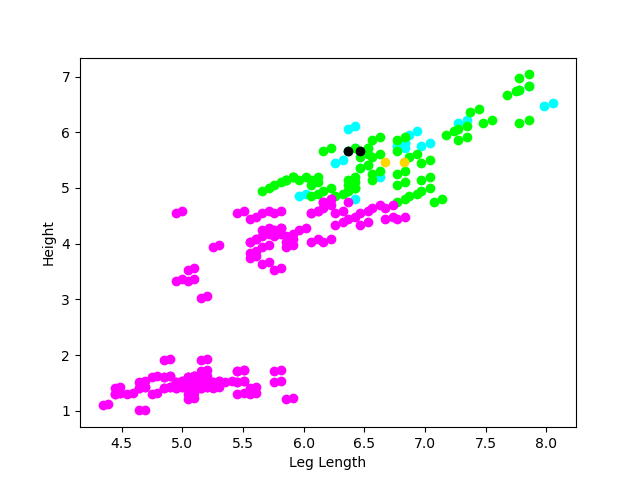
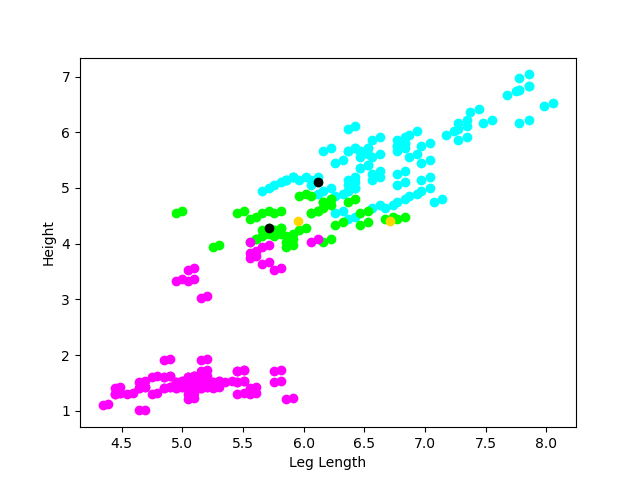
.

Changed region(s): [[0.3125, 0.2812, 0.7188, 0.5312], [0.6875, 0.125, 0.8438, 0.3125], [0.25, 0.4375, 0.3125, 0.4688]]

diff --git a/Task 3/main.py b/Task 3/main.py
@@ -1,0 +1,275 @@
+import findspark
+import pyspark
+import matplotlib.pyplot as plt
+import numpy as np
+import pandas as pd
+from functools import reduce
+from pyspark.sql import SparkSession
+from pyspark.ml import Pipeline
+from pyspark.sql import DataFrame
+from pyspark.ml.stat import Correlation
+from pyspark.sql.types import IntegerType, FloatType, StructType, StructField
+from pyspark.ml.feature import VectorAssembler, StandardScaler, VectorIndexer, StringIndexer
+from pyspark.ml.classification import DecisionTreeClassifier, NaiveBayes, LogisticRegression, MultilayerPerceptronClassifier, LinearSVC
+from pyspark.ml.evaluation import MulticlassClassificationEvaluator
+from pyspark.sql.functions import isnan, when, count, col, max, min, mean, percentile_approx, first, row_number, monotonically_increasing_id, lit, rand
+from pyspark.sql import Window
+
+findspark.init()
+
+
+spark = SparkSession.builder.getOrCreate()
+df = spark.read.csv('nuclear_plants_small_dataset.csv', inferSchema=True, header=True).na.fill(0)
+#Detecting when a value is messing from the dataset 
+df.select([count(when(isnan(c) | col(c).isNull(), c)).alias(c) for c in df.columns])
+
+print(f"""There are {df.count()} records in the dataset.""")
+
+
+#Splits the data to all with a normal status 
+normal_df = df.where(col('Status') == "Normal")
+
+#finds the max, min, mean and median of each column in the normal dataset 
+max_normal_df = normal_df.select([max(c) for c in normal_df.columns]) 
+min_normal_df = normal_df.select([min(c) for c in normal_df.columns])
+mean_normal_df = normal_df.select([mean(c) for c in normal_df.columns])
+median_normal_df = normal_df.select([percentile_approx(i, 0.5)for i in normal_df.columns])
+
+#finds the lower and higher percentiles of each column in the normal dataset 
+lower_percentile_normal_df = normal_df.select([percentile_approx(i, 0.25)for i in normal_df.columns])
+higher_percentile_normal_df = normal_df.select([percentile_approx(i, 0.75)for i in normal_df.columns])
+
+#Splits the data to all with a abnormal status 
+abnormal_df = df.where(col('Status') == "Abnormal")
+
+#finds the max, min, mean and median of each column in the abnormal dataset 
+max_abnormal_df = abnormal_df.select([max(c) for c in abnormal_df.columns])
+min_abnormal_df = abnormal_df.select([min(c) for c in abnormal_df.columns])
+mean_abnormal_df = abnormal_df.select([mean(c) for c in abnormal_df.columns])
+median_abnormal_df = abnormal_df.select([percentile_approx(i, 0.5)for i in abnormal_df.columns])
+
+#finds the lower and higher percentiles of each column in the abnormal dataset 
+lower_percentile_abnormal_df = abnormal_df.select([percentile_approx(i, 0.25)for i in abnormal_df.columns])
+higher_percentile_abnormal_df = abnormal_df.select([percentile_approx(i, 0.75)for i in abnormal_df.columns])
+
+#convers the dataframes to pandas dataframes, this is to print the data in boxplots
+pandasNDF = normal_df.toPandas()
+pandasADF = abnormal_df.toPandas()
+
+#creates blank lists to store 
+normallist = []
+abnormallist = []
+
+drop = df.drop("Status")
+columns = (drop.columns)
+titlelist = ["Status","Power_range_sensor_1","Power_range_sensor_2","Power_range_sensor_3 ",'Power_range_sensor_4','Pressure _sensor_1','Pressure _sensor_2','Pressure _sensor_3','Pressure _sensor_4','Vibration_sensor_1','Vibration_sensor_2','Vibration_sensor_3','Vibration_sensor_4']
+
+#Calculates the mode for normal data
+
+for c in columns:
+    nm = normal_df.groupBy(c).count().orderBy('count', ascending=False).first()[0]
+    normallist.append(nm)
+
+normalrdd = spark.sparkContext.parallelize(normallist)
+normalrdd2 = normalrdd.map(lambda c: (c, )).toDF()
+nw = Window.orderBy("_1")
+na = normalrdd2.withColumn("x4", row_number().over(nw))
+nb = na.withColumn("Status", lit("Normal"))
+nc = nb.groupBy("Status").pivot("x4").sum("_1")
+modenormal = nc.select(col("Status").alias("Status"),col("1").alias("Power_range_sensor_1"),col("2").alias("Power_range_sensor_2"),col("3").alias("Power_range_sensor_3 "),col("4").alias("Power_range_sensor_4"),col("5").alias("Pressure _sensor_1"),col("6").alias("Pressure _sensor_2"),col("7").alias("Pressure _sensor_3"),col("8").alias("Pressure _sensor_4"),col("9").alias("Vibration_sensor_1"),col("10").alias("Vibration_sensor_2"),col("11").alias("Vibration_sensor_3"),col("12").alias("Vibration_sensor_4"))
+
+#Calculates the mode for abnormal data
+
+for p in columns:
+    abm = abnormal_df.groupBy(p).count().orderBy('count', ascending=False).first()[0]
+    abnormallist.append(abm)
+
+abnormalrdd = spark.sparkContext.parallelize(abnormallist)
+abnormalrdd2 = abnormalrdd.map(lambda c: (c, )).toDF()
+abnw = Window.orderBy("_1")
+abna = abnormalrdd2.withColumn("x4", row_number().over(abnw))
+abnb = abna.withColumn("Status", lit("Abnormal"))
+abnc = abnb.groupBy("Status").pivot("x4").sum("_1")
+modeabnormal = abnc.select(col("Status").alias("Status"),col("1").alias("Power_range_sensor_1"),col("2").alias("Power_range_sensor_2"),col("3").alias("Power_range_sensor_3 "),col("4").alias("Power_range_sensor_4"),col("5").alias("Pressure _sensor_1"),col("6").alias("Pressure _sensor_2"),col("7").alias("Pressure _sensor_3"),col("8").alias("Pressure _sensor_4"),col("9").alias("Vibration_sensor_1"),col("10").alias("Vibration_sensor_2"),col("11").alias("Vibration_sensor_3"),col("12").alias("Vibration_sensor_4"))
+
+
+
+
+
+labelCol = "Status"
+
+
+print(f"""There are {df.count()} records in the dataset.""")
+columnsdata = df.columns
+filteredcol = columnsdata[:-1]
+inputCols = filteredcol[1:]
+colnumb = [len(inputCols), 15, 15, 2]
+
+labelIndexer = StringIndexer(\
+                            inputCol="Status", \
+                            outputCol="indexedLabel")
+
+va = VectorAssembler(\
+                               inputCols = inputCols, \
+                               outputCol = "features") \
+                              .setHandleInvalid("skip")
+
+stdScaler = StandardScaler(inputCol="features", \
+                        outputCol="scaledFeatures", \
+                        withStd=True, \
+                        withMean=False)
+
+dt = DecisionTreeClassifier(labelCol="indexedLabel", \
+                            featuresCol="features", \
+                            impurity="gini")
+
+evaluator = MulticlassClassificationEvaluator(
+        labelCol='indexedLabel', 
+        predictionCol='prediction', 
+        metricName='accuracy')
+
+linear = LinearSVC(maxIter=10, \
+        regParam=0.1, \
+        featuresCol='scaledFeatures', \
+        labelCol='indexedLabel')
+
+multilayerper = MultilayerPerceptronClassifier(labelCol="indexedLabel", \
+                                     featuresCol="scaledFeatures", \
+                                     maxIter=100, layers=colnumb, \
+                                     blockSize=128, \
+                                     seed=1234)
+
+
+randdf = df.orderBy(rand())
+
+#randomizes data
+adf = labelIndexer.fit(randdf).transform(randdf)
+adf = adf.drop("Status")
+
+#assebles vectors
+adf = va.transform(adf)
+
+#trains scaler
+scalemodel = stdScaler.fit(adf)
+sadf = scalemodel.transform(adf)
+#splits data 
+trainDF, testDF = sadf.randomSplit([.7, .3], seed=42)
+
+#trains decision tree
+dttrained = dt.fit(trainDF)
+dtpredict = dttrained.transform(testDF)
+
+#trains the support vector
+svmodel = linear.fit(trainDF)
+svpredict = svmodel.transform(testDF)
+
+#trains the multilaterperceptron
+multimodel = multilayerper.fit(trainDF)
+multipredict = multimodel.transform(testDF)
+
+#calculates the accuracy 
+multiaccuracy = evaluator.evaluate(multipredict)
+vectoraccuracy = evaluator.evaluate(svpredict)
+dtaccuracy = evaluator.evaluate(dtpredict)
+
+
+N_train = trainDF.select("indexedLabel").where(col("indexedLabel") == 0).count()
+AB_train = trainDF.select("indexedLabel").where(col("indexedLabel") == 1).count()
+N_test = testDF.select("indexedLabel").where(col("indexedLabel") == 0).count()
+AB_test = testDF.select("indexedLabel").where(col("indexedLabel") == 1).count()
+
+#decision tree
+dtTrueN = dtpredict.where((col('prediction')=='0') & (col('indexedLabel')=='0')).count()
+dtFalseN = dtpredict.where((col('prediction')=='1') & (col('indexedLabel')=='0')).count()
+dtTrueABN = dtpredict.where((col('prediction')=='1') & (col('indexedLabel')=='1')).count()
+dtFalseABN = dtpredict.where((col('prediction')=='0') & (col('indexedLabel')=='1')).count()
+#support vector
+svTrueN = svpredict.where((col('prediction')=='0') & (col('indexedLabel')=='0')).count()
+svFalseN = svpredict.where((col('prediction')=='1') & (col('indexedLabel')=='0')).count()
+svTrueABN = svpredict.where((col('prediction')=='1') & (col('indexedLabel')=='1')).count()
+svFalseABN = svpredict.where((col('prediction')=='0') & (col('indexedLabel')=='1')).count()
+#multilayerperceptron
+mtTrueN = multipredict.where((col('prediction')=='0') & (col('indexedLabel')=='0')).count()
+mtFalseN = multipredict.where((col('prediction')=='1') & (col('indexedLabel')=='0')).count()
+mtTrueABN = multipredict.where((col('prediction')=='1') & (col('indexedLabel')=='1')).count()
+mtFalseABN = multipredict.where((col('prediction')=='0') & (col('indexedLabel')=='1')).count()
+
+statlist = ["min","max","mean","median","mode","lower","upper"]
+dtSen = (dtTrueN + dtFalseABN)
+dtSensitivity = (dtTrueN / dtSen)
+dtSpe = (dtTrueABN + dtFalseN)
+dtSpecificity = (dtTrueABN / dtSpe)
+dtmatrix = spark.createDataFrame([("Normal", dtTrueN, dtFalseN),("Abnormal", dtFalseABN, dtTrueABN)],['Status','True',"False"])
+
+svSen = (svTrueN + svFalseABN)
+svSensitivity = (svTrueN / svSen)
+svSpe = (svTrueABN + svFalseN)
+svSpecificity = (svTrueABN / svSpe)
+svmatrix = spark.createDataFrame([("Normal", svTrueN, svFalseN),("Abnormal", svFalseABN, svTrueABN)],['Status','True',"False"])
+
+mtSen = (mtTrueN + mtFalseABN)
+mtSensitivity = (mtTrueN / mtSen)
+mtSpe = (mtTrueABN + mtFalseN)
+mtSpecificity = (mtTrueABN / mtSpe)
+mtmatrix = spark.createDataFrame([("Normal", mtTrueN, mtFalseN),("Abnormal", mtFalseABN, mtTrueABN)],['Status','True',"False"])
+
+class boxplots():
+    pandasNDF.boxplot(column=["Power_range_sensor_1","Power_range_sensor_2","Power_range_sensor_3 ",'Power_range_sensor_4','Pressure _sensor_1','Pressure _sensor_2','Pressure _sensor_3','Pressure _sensor_4','Vibration_sensor_1','Vibration_sensor_2','Vibration_sensor_3','Vibration_sensor_4'],by="Status")
+    pandasADF.boxplot(column=["Power_range_sensor_1","Power_range_sensor_2","Power_range_sensor_3 ",'Power_range_sensor_4','Pressure _sensor_1','Pressure _sensor_2','Pressure _sensor_3','Pressure _sensor_4','Vibration_sensor_1','Vibration_sensor_2','Vibration_sensor_3','Vibration_sensor_4'],by="Status")
+boxplots()
+
+class showdf():
+    print("Normal Max")
+    max_normal_df.show()
+    print("Normal Min")
+    min_normal_df.show()
+    print("Normal Mean")
+    mean_normal_df.show()
+    print("Normal Median")
+    median_normal_df.show()
+    print("Normal Mode")
+    modenormal.show()
+    print("Normal Lower Percentile")
+    lower_percentile_normal_df.show()
+    print("Normal Higher Precentile")
+    higher_percentile_normal_df.show()
+    print("Abnormal Max")
+    max_abnormal_df.show()
+    print("Abnormal Min")
+    min_abnormal_df.show()
+    print("Abnormal Mean")
+    mean_abnormal_df.show() 
+    print("Abnormal Median") 
+    median_abnormal_df.show()
+    print("Abnormal Mode")
+    modeabnormal.show()
+    print("Abnormal Lower Percentile")
+    lower_percentile_abnormal_df.show()
+    print("Abnormal Higher Precentile")
+    higher_percentile_abnormal_df.show()
+    boxplots()
+    plt.show()  
+    print(f"""There are {N_train} rows in the training set, and {N_test} in the test set for the normal dataset""")
+    print(f"""There are {AB_train} rows in the training set, and {AB_test} in the test set for the abnormal dataset""")
+    print("Accuracy of Decision Tree is = %g"%(dtaccuracy))
+    print("Error of Decision Tree is = %g "%(1.0 - dtaccuracy))
+    print(f"""Sensitivity of Devision Tree is = {dtSensitivity}, and the Specificity = {dtSpecificity}""")
+    dtpredict.select(col("indexedLabel"),col("scaledFeatures"),col("prediction"),col("probability")).show()
+    print("Decision Tree Correlation Matric")
+    dtmatrix.show()
+    print("Accuracy of Multi-layer Perceptron is = %g"%(multiaccuracy))
+    print("Error of Multi-layer Perceptron is = %g "%(1.0 - multiaccuracy))
+    print(f"""Sensitivity of Multi-Layer Perceptron is = {mtSensitivity}, and the Specificity = {mtSpecificity}""") 
+    multipredict.select(col("indexedLabel"),col("scaledFeatures"),col("prediction"),col("probability")).show()
+    print("Multi-Layer Perceptron Correlation Matric")
+    mtmatrix.show()
+    print("Accuracy of Support Vector is = %g"%(vectoraccuracy))
+    print("Error of Support Vector is = %g "%(1.0 - vectoraccuracy))
+    print(f"""Sensitivity of Support Vector is = {svSensitivity}, and the Specificity = {svSpecificity}""")
+    svpredict.select(col("indexedLabel"),col("scaledFeatures"),col("prediction")).show()
+    print("Support Vector Correlation Matric")
+    svmatrix.show()
+showdf()
+
+
+

diff --git a/Task 2/Task 2.py b/Task 2/Task 2.py
@@ -7,7 +7,6 @@ from sklearn.cluster import KMeans
 data = pd.read_csv('Task 2/dog_breeds.csv')
 data.head()
 
-
 def initialise_centroids(dataset, k):
     dt = dataset.to_numpy()
     #shuffels the data
@@ -23,25 +22,30 @@ def compute_euclidean_distance(vec_1, vec_2):
     return distance
 
 def kmeans(dataset, k):
-    data_m = dataset.to_numpy()
-    ca = np.zeros((len(data_m), 2))
+    dm = dataset.to_numpy()
+    #stores assigned cluster and distance
+    ca = np.zeros((len(dm), 2))
     centroids = initialise_centroids(dataset, k)
-    for vi, v in enumerate(data_m):
+    #measures the distance of each point in each row in the dataset
+    for vi, v in enumerate(dm):
         centdis = np.zeros(len(centroids))
         for i, centroid in enumerate(centroids):
             d = compute_euclidean_distance(v, centroid)
             centdis[i] = d 
         md = np.min(centdis)
         ac = np.argmin(centdis)
-        ca[vi] = np.array([md, ac])  
+        ca[vi] = np.array([md, ac])
+    #creats a new dataset with the chosen clusters as the new column   
     cadf = dataset
     cadf['ac'] = ca[:, 1]
     nc = np.zeros([k, len(centroids[0])])
+    #calculates the mean of the clusters
     for i, centroid in enumerate(centroids):
         cc = cadf
         cc = cc[cc['ac'] == i]
         cc = cc.drop(['ac'], axis=1)
         cgnp = cc.to_numpy()
+        #updates the centroid with mean of each cluster
         for x, val in enumerate(centroid):            
             cc = cgnp[:, x]
             mean = np.mean(cc)
@@ -52,6 +56,7 @@ centroids, mean_cent, clusassdf = kmeans(data, k=3)
 km1 = clusassdf[clusassdf['ac'] == 0]
 km2 = clusassdf[clusassdf['ac'] == 1]
 km3 = clusassdf[clusassdf['ac'] == 2]
+
 #plots the data for the tail length
 plt.scatter(km1['height'],km1['tail length'],color='dodgerblue')
 plt.scatter(km2['height'],km2['tail length'],color='orange')
@@ -60,10 +65,11 @@ plt.scatter(centroids[0, 0],centroids[0, 1],color='black')
 plt.scatter(centroids[1, 0],centroids[1, 1],color='black')
 plt.scatter(mean_cent[0, 0],mean_cent[1, 1],color='gold')
 plt.scatter(mean_cent[1, 0],mean_cent[1, 1,],color='gold')
-plt.xlabel('Tail Length')
-plt.ylabel('Height')
+plt.xlabel('Height')
+plt.ylabel('Tail Length')
 plt.savefig('tail_length.png')
 plt.show()
+
 #plots the data for the leg length
 plt.scatter(km1['height'],km1['leg length'],color='cyan')
 plt.scatter(km2['height'],km2['leg length'],color='lime')
@@ -72,7 +78,7 @@ plt.scatter(centroids[0, 0],centroids[0, 2],color='black')
 plt.scatter(centroids[1, 0],centroids[1, 2],color='black')
 plt.scatter(mean_cent[0, 0],mean_cent[1, 2],color='gold')
 plt.scatter(mean_cent[1, 0],mean_cent[1, 2],color='gold')
-plt.xlabel('Leg Length')
-plt.ylabel('Height')
+plt.xlabel('Height')
+plt.ylabel('Leg Length')
 plt.savefig('leg_length.png')
 plt.show()

diff --git a/Task 3/Task 3.py b/Task 3/Task 3.py
@@ -1,0 +1,43 @@
+from cgi import test
+import numpy as np 
+import pandas as pd
+import matplotlib.pyplot as plt
+import tensorflow as tf
+from tensorflow import keras
+from sklearn.model_selection import train_test_split
+from sklearn import preprocessing
+from sklearn.model_selection import KFold
+from sklearn.metrics import accuracy_score
+
+df = pd.read_csv('Task 3/HIV_RVG.csv')
+print(df)
+
+def display_boxplot(data, column):
+    data.boxplot(by='Participant Condition', column=column)
+    plt.show()
+
+def statistical_summary(data):
+    #mean values, standard deviations, min/max values
+    data = data.drop(columns=['Participant Condition'])
+    columns = ["Image number","Bifurcation number","Artery (1)/ Vein (2)","Alpha","Beta","Lambda","Lambda1","Lambda2"]
+    min = {}
+    max = {}
+    mean = {}
+    min['summary'] = ['min']
+    max['summary'] = ['max']
+    mean['summary'] = ['mean']
+    for i in data.columns:
+        min[i] = [data[i].min()]
+    for i in data.columns:
+        max[i] = [data[i].max()]
+    for i in data.columns:
+        mean[i] = [data[i].mean()]
+    mindf = pd.DataFrame(min)
+    maxdf = pd.DataFrame(max)
+    meandf = pd.DataFrame(mean)
+    summarydf = pd.concat([mindf, maxdf, meandf])
+    print(summarydf)
+
+display_boxplot(df, 'Alpha')
+display_boxplot(df, 'Beta')
+statistical_summary(df)
